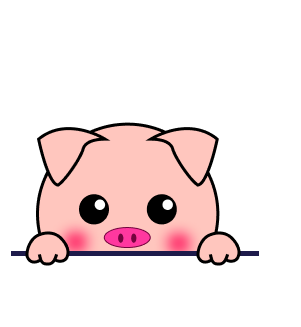
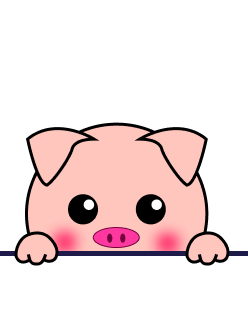
arregle los animalitos arriba de los popupsssssss. MUCHOS COLORES EN FUEGOS ARTIFICIALESSSSSSS

Changed region(s): [[0.0, 0.3668, 1.0, 0.8464]]

diff --git a/index.html b/index.html
@@ -18,63 +18,67 @@
 
 <body>
 
+
 <div id="Comenzar" class="pantalla">
        
   <button class="BotonSalir" data-destino="pantalla-inicio">
-    <svg xmlns="http://www.w3.org/2000/svg" width="32" height="32" viewBox="0 0 24 24" fill="none" stroke="currentColor" stroke-width="2" stroke-linecap="round" stroke-linejoin="round"><path d="m9 18 6-6-6-6"/></svg>
+  <svg xmlns="http://www.w3.org/2000/svg" width="32" height="32" viewBox="0 0 24 24" fill="none" stroke="currentColor" stroke-width="2" stroke-linecap="round" stroke-linejoin="round"><path d="m9 18 6-6-6-6"/></svg>
   </button>
   
-
-
 <section class="comenzar">
 
-  <img class="sonnys-arriba-comenzar" id="conejo-colgando"  src="assets/arriba-popups/conejo-colgando.png">
   
   <div id="contenedor-comenzar">
-   <h2 class="como-jugar-hoy">¿Cómo vamos a jugar hoy?</h2>
-      <button class="btn-popup" id="btn-con-cuenta" data-destino="elegir-usuarios">Con cuenta</button>
-      <button class="btn-popup" id="btn-sin-cuenta" data-destino="cuadricula">Sin cuenta</button>
-    </div>
-  </section>
+
+    <img class="sonnys-arriba-comenzar" id="conejo-colgando"  src="assets/arriba-popups/conejo-colgando.png">
+
+    <h2 class="como-jugar-hoy">¿Cómo vamos a jugar hoy?</h2>
+    <button class="btn-popup" id="btn-con-cuenta" data-destino="elegir-usuarios">Con cuenta</button>
+    <button class="btn-popup" id="btn-sin-cuenta" data-destino="cuadricula">Sin cuenta</button>
+  </div>
+
+</section>
 
 </div>
 
 <div id="elegir-usuarios">
+
+<div class="elegir-usuarios">
+
+  <div class="jugador-seccion">
+
  
-
-  <div class="elegir-usuarios">
-
-    <div class="jugador-seccion">
-
       <img class="sonnys-arriba-usuario" id="pollo-colgando" src="assets/arriba-popups/pollo-colgando.png">
+      <img class="cartel-jugadores" id="cartel-J1" src="assets/arriba-popups/cartel-J1.png">
 
-      <div class="contenedor-jugador">
       <h2>¿Quién será Jugador 1?</h2>
       <p class="JugadoresAnteriores">Jugadores anteriores:</p>
     
       <div class="lista-jugadores" id="lista-jugadores1"></div>
 
-    <button class="btn-crear-jugador" id="btnCrearJugador1">Crear cuenta de J1</button>
-  </div> 
+      <button class="btn-crear-jugador" id="btnCrearJugador1">Crear cuenta de J1</button>
+  
 
-  </div>
+</div>
 
-    <div class="jugador-seccion">
+  <div class="jugador-seccion">
+
+    
       <img class="sonnys-arriba-usuario" id="cerdo-colgando" src="assets/arriba-popups/cerdo-colgando.png">
+      <img class="cartel-jugadores" id="cartel-J2" src="assets/arriba-popups/cartel-J2.png">
 
-      <div class="contenedor-jugador">
 
       <h2>¿Quién será Jugador 2?</h2>
     
       <p class="JugadoresAnteriores">Jugadores anteriores:</p>
       
-    <div class="lista-jugadores" id="lista-jugadores2"></div>
+      <div class="lista-jugadores" id="lista-jugadores2"></div>
 
-    <button class="btn-crear-jugador" id="btnCrearJugador2">Crear cuenta de J2</button>
-    </div>
+      <button class="btn-crear-jugador" id="btnCrearJugador2">Crear cuenta de J2</button>
 
-    </div>
+
   </div>
+</div>
   
   
 

diff --git a/style.css b/style.css
@@ -141,15 +141,16 @@
         }
 
         #conejo-colgando{
-                position: absolute;
-                width: 200px;
-            
-                left: 63%;
-                top: calc(32.9% - 190px);
-            
-                transform: translateX(-50%);
-            
-                z-index: 2;
+        position: absolute;
+
+        width: 190px;
+
+        left: 80%;
+        top: 3.3%;
+
+        transform: translate(-50%, -85%);
+
+        z-index: 10;
         }
             
         .como-jugar-hoy{
@@ -518,7 +519,7 @@
         background: #ffffff;
 
        
-        border: .2rem solid #1E1B4B;
+        border: .3rem solid #1E1B4B;
         border-radius: 20px;
         padding: 28px;
         display: flex;
@@ -534,21 +535,31 @@
         
         }
 
-        .contenedor-jugador{
-            position: relative;  
-            z-index: 1;
-
-            
-        }
 
         .sonnys-arriba-usuario{
-            position: absolute;
-            width: 195px;
-            left: 24%;
-            top: -34.4%;
+        position: absolute;
 
-            transform: translateX(-50%);
-            z-index: 2;
+        width: 170px;
+
+        left: 23%;
+        top: 2.15%;
+
+        transform: translate(-50%, -85%);
+
+        z-index: 10;
+        }
+
+        .cartel-jugadores{
+        position: absolute;
+        width: 230px;
+
+        left: 72%;
+        top: 3%;
+
+        transform: translate(-50%, -85%);
+
+        z-index: -1;
+
         }
 
         .jugador-seccion h2 {
@@ -559,7 +570,7 @@
 
         margin-top: 0;
         margin-bottom: 10px;
-        z-index: 100;
+        z-index: 1000;
         }
 
         
@@ -1047,7 +1058,7 @@
 
         .anzuelo{
         position: absolute;
-        width: 10vw;
+        width: 5vw;
         max-width: 180px;
         top: 10%;
         }

diff --git a/script.js b/script.js
@@ -504,7 +504,7 @@ function crearFuegoArtificial() {
         console.log("No se pudo reproducir el sonido:", error);
     });
 
-    const colores = ["red", "blue", "yellow", "green", "pink", "purple", "orange"];
+    const colores = ["red", "blue", "yellow", "green", "pink", "purple", "orange", "cyan", "magenta", "lime", "teal", "indigo", "violet", "gold", "silver", "coral", "salmon", "turquoise", "lavender", "peach", "mint", "plum", "navy", "maroon", "olive", "aqua", "fuchsia", "crimson", "khaki", "orchid"];
 
     const color = colores[Math.floor(Math.random() * colores.length)];
 
